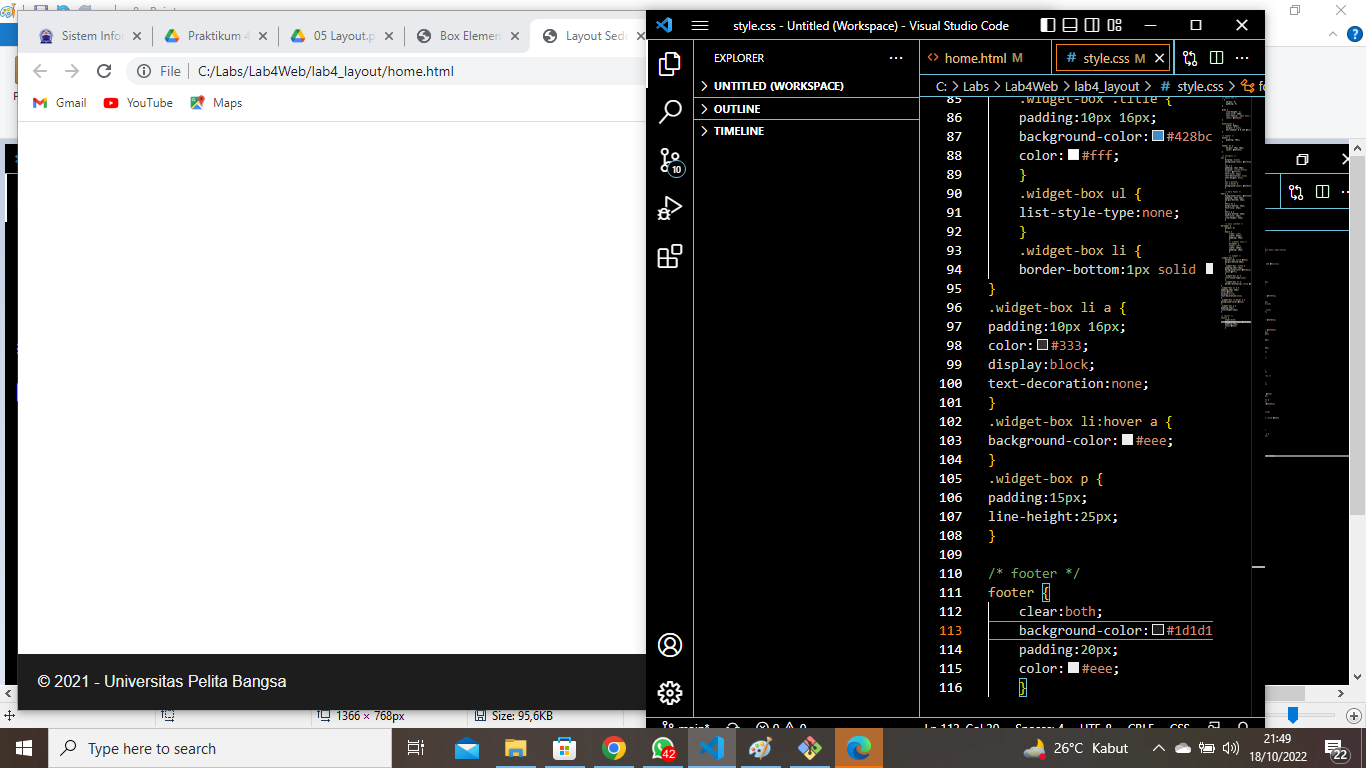
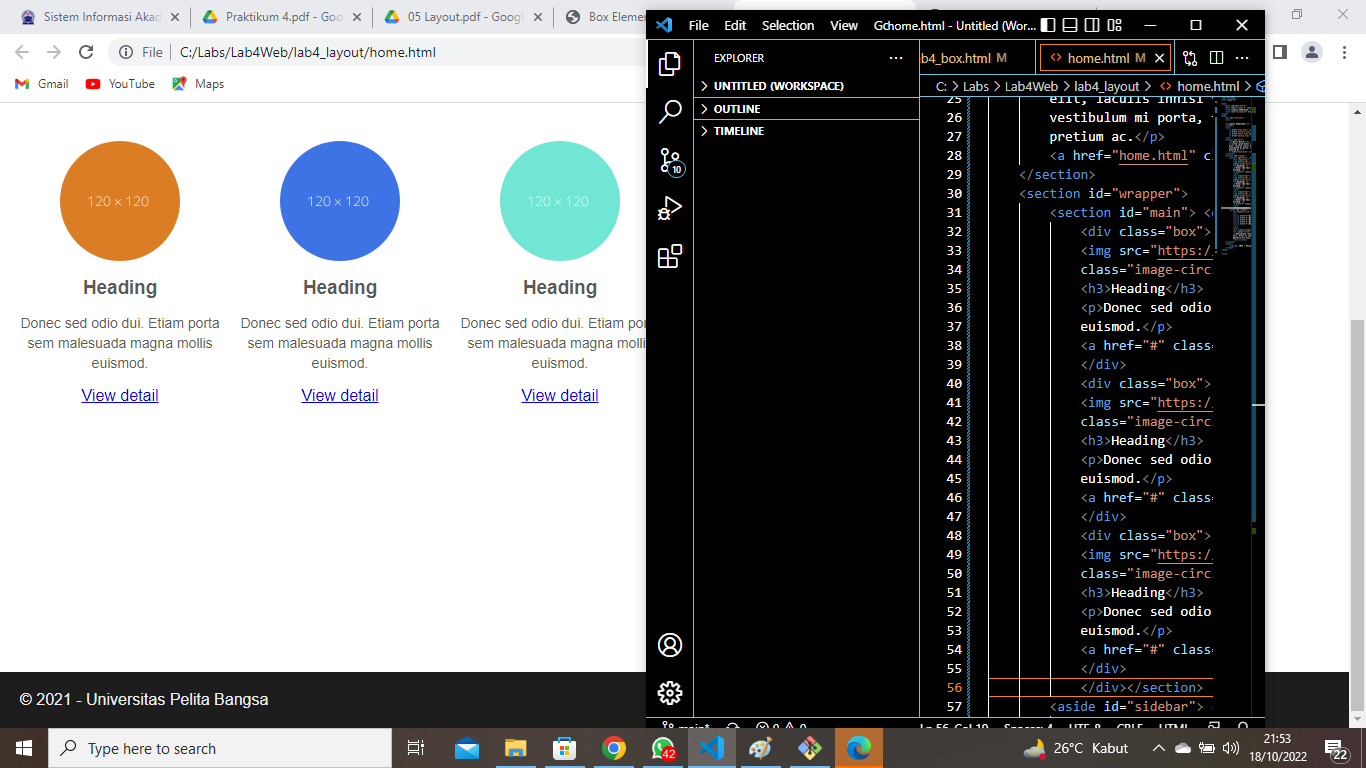
menambahkan file

diff --git a/lab4_layout/home.html b/lab4_layout/home.html
@@ -5,101 +5,101 @@
     <meta charset="UTF-8">
     <meta name="viewport" content="width=device-width, initial-scale=1.0">
     <title>Layout Sederhana</title>
-    <link rel="stylesheet" href="style.css">
+    <link rel="stylesheet" type="text/css" href="style.css">
 </head>
 
 <body>
     <div id="container">
-    </div>
-    <header>
-        <h1>Layout Sederhana</h1>
-    </header>
-    <nav>
-        <a href="home.html" class="active">Home</a>
-        <a href="artikel.html">Artikel</a>
-        <a href="about.html">About</a>
-        <a href="kontak.html">Kontak</a>
-    </nav>
+        <header>
+            <h1>Layout Sederhana</h1>
+        </header>
+        <nav>
+            <a href="home.html" class="active">Home</a>
+            <a href="artikel.html">Artikel</a>
+            <a href="about.html">About</a>
+            <a href="kontak.html">Kontak</a>
+        </nav>
 
-    <section id="hero">
-        <h1>Hello World!</h1>
-        <p>Lorem ipsum dolor sit amet, consectetur adipiscing elit. Vestibulum lorem
-            elit, iaculis innisl volutpat, malesuada tincidunt arcu. Proin in leo fringilla,
-            vestibulum mi porta, faucibus felis. Integer pharetra est nunc, nec pretium nunc
-            pretium ac.</p>
-        <a href="home.html" class="btn btn-large">Learn more &raquo;</a>
-    </section>
-
-    <section id="wrapper">
-        <section id="main">
-            <div class="row">
-                <div class="box">
-                    <img src="https://dummyimage.com/120/db7d25/fff.png" alt="" class="image-circle">
-                    <h3>Heading</h3>
-                    <p>Donec sed odio dui. Etiam porta sem malesuada magna mollis
-                        euismod.</p>
-                    <a href="#" class="btn btn-default">View detail</a>
-                </div>
-                <div class="box">
-                    <img src="https://dummyimage.com/120/3e73e6/fff.png" alt="" class="image-circle">
-                    <h3>Heading</h3>
-                    <p>Donec sed odio dui. Etiam porta sem malesuada magna mollis
-                        euismod.</p>
-                    <a href="#" class="btn btn-default">View detail</a>
-                </div>
-                <div class="box">
-                    <img src="https://dummyimage.com/120/71e6d4/fff.png" alt="" class="image-circle">
-                    <h3>Heading</h3>
-                    <p>Donec sed odio dui. Etiam porta sem malesuada magna mollis
-                        euismod.</p>
-                    <a href="#" class="btn btn-default">View detail</a>
-                </div>
-            </div>
+        <section id="hero">
+            <h1>Hello World!</h1>
+            <p> Lorem ipsum dolor sit amet, consectetur adipiscing elit. Vestibulum lorem
+                elit, iaculis innisl volutpat, malesuada tincidunt arcu. Proin in leo fringilla,
+                vestibulum mi porta, faucibus felis. Integer pharetra est nunc, nec pretium nunc
+                pretium ac.</p>
+            <a href="home.html" class="btn btn-large">Learn more &raquo;</a>
         </section>
 
-        <aside id="sidebar">
-            <div class="widget-box">
-                <h3 class="title">Widget Header</h3>
-                <ul>
-                    <li><a href="#">Widget Link</a></li>
-                    <li><a href="#">Widget Link</a></li>
-                    <li><a href="#">Widget Link</a></li>
-                    <li><a href="#">Widget Link</a></li>
-                    <li><a href="#">Widget Link</a></li>
-                </ul>
-            </div>
-            <div class="widget-box">
-                <h3 class="title">Widget Text</h3>
-                <p>Vestibulum lorem elit, iaculis in nisl volutpat, malesuada tincidunt
-                    arcu. Proin in leo fringilla, vestibulum mi porta, faucibus felis. Integer
-                    pharetra est nunc, nec pretium nunc pretium ac.</p>
-            </div>
-        </aside>
-    </section>
+        <section id="wrapper">
+            <section id="main">
+                <div class="row">
+                    <div class="box">
+                        <img src="https://dummyimage.com/120/db7d25/fff.png" alt="" class="image-circle">
+                        <h3>Heading</h3>
+                        <p>Donec sed odio dui. Etiam porta sem malesuada magna mollis
+                            euismod.</p>
+                        <a href="#" class="btn btn-default">View detail</a>
+                    </div>
+                    <div class="box">
+                        <img src="https://dummyimage.com/120/3e73e6/fff.png" alt="" class="image-circle">
+                        <h3>Heading</h3>
+                        <p>Donec sed odio dui. Etiam porta sem malesuada magna mollis
+                            euismod.</p>
+                        <a href="#" class="btn btn-default">View detail</a>
+                    </div>
+                    <div class="box">
+                        <img src="https://dummyimage.com/120/71e6d4/fff.png" alt="" class="image-circle">
+                        <h3>Heading</h3>
+                        <p>Donec sed odio dui. Etiam porta sem malesuada magna mollis
+                            euismod.</p>
+                        <a href="#" class="btn btn-default">View detail</a>
+                    </div>
+                </div>
+                <hr class="divider" />
+                <article class="entry">
+                    <h2>First featurette heading</h2>
+                    <img src="https://dummyimage.com/150/7b8a70/fff.png" alt="">
+                    <p>Lorem ipsum dolor sit amet, consectetur adipiscing elit. Vestibulum lorem
+                        elit, iaculis in nisl volutpat, malesuada tincidunt arcu. Proin in leo fringilla,
+                        vestibulum mi porta, faucibus felis. Integer pharetra est nunc, nec pretium nunc
+                        pretium ac.</p>
+                </article>
+                <hr class="divider" />
+                <article class="entry">
+                    <h2>First featurette heading.</h2>
+                    <img src="https://dummyimage.com/150/7b8a70/fff.png" alt="" class="right-img">
+                    <p>Lorem ipsum dolor sit amet, consectetur adipiscing elit. Vestibulum lorem
+                        elit, iaculis in nisl volutpat, malesuada tincidunt arcu. Proin in leo fringilla,
+                        vestibulum mi porta, faucibus felis. Integer pharetra est nunc, nec pretium nunc
+                        pretium ac.</p>
+                </article>
+        
+            </section>
 
-    <hr class="divider" />
-    <article class="entry">
-        <h2>First featurette heading.</h2>
-        <img src="https://dummyimage.com/150/7b8a70/fff.png" alt="" class="left-img">
-        <p>Lorem ipsum dolor sit amet, consectetur adipiscing elit. Vestibulum lorem
-            elit, iaculis in nisl volutpat, malesuada tincidunt arcu. Proin in leo fringilla,
-            vestibulum mi porta, faucibus felis. Integer pharetra est nunc, nec pretium nunc
-            pretium ac.</p>
-    </article>
+            <aside id="sidebar">
+                <div class="widget-box">
+                    <h3 class="title">Widget Header</h3>
+                    <ul>
+                        <li><a href="#">Widget Link</a></li>
+                        <li><a href="#">Widget Link</a></li>
+                        <li><a href="#">Widget Link</a></li>
+                        <li><a href="#">Widget Link</a></li>
+                        <li><a href="#">Widget Link</a></li>
+                    </ul>
+                </div>
+                <div class="widget-box">
+                    <h3 class="title">Widget Text</h3>
+                    <p>Vestibulum lorem elit, iaculis in nisl volutpat, malesuada tincidunt
+                        arcu. Proin in leo fringilla, vestibulum mi porta, faucibus felis. Integer
+                        pharetra est nunc, nec pretium nunc pretium ac.</p>
+                </div>
+            </aside>
+        </section>
 
-    <hr class="divider" />
-    <article class="entry">
-        <h2>First featurette heading.</h2>
-        <img src="https://dummyimage.com/150/7b8a70/fff.png" alt="" class="right-img">
-        <p>Lorem ipsum dolor sit amet, consectetur adipiscing elit. Vestibulum lorem
-            elit, iaculis in nisl volutpat, malesuada tincidunt arcu. Proin in leo fringilla,
-            vestibulum mi porta, faucibus felis. Integer pharetra est nunc, nec pretium nunc
-            pretium ac.</p>
-    </article>
-
-    <footer>
-        <p>&copy; 2021 - Universitas Pelita Bangsa</p>
-    </footer>
+       
+        <footer>
+            <p>&copy; 2021 - Universitas Pelita Bangsa</p>
+        </footer>
+    </div>
 </body>
 
 </html>

diff --git a/lab4_layout/style.css b/lab4_layout/style.css
@@ -19,16 +19,21 @@
 
  /* header */
  header {
+     width: 100%;
+     display: flex;
+     justify-content: left;
+     align-items: left;
      padding: 20px;
  }
 
  header h1 {
-    margin: 0px 20px;
-    color: #b5b5b5;
+     margin: 0px 20px;
+     color: #b5b5b5;
  }
 
  /* navigasi */
  nav {
+     width: 100%;
      display: block;
      background-color: #1f5faa;
  }
@@ -190,7 +195,7 @@
  }
 
  .entry h2 {
-     margin-bottom: 20px;
+     margin-bottom: 20px
  }
 
  .entry p {

diff --git a/README.md b/README.md
@@ -1,1 +1,40 @@
 # Lab4Web
+## Membuat CSS Layout
+### Langkah - langkah Pratikum 4
+
+#### Membuat Box Element
+Digunakan untuk membuat daftar dimana tiap bagiannya ditandai dengan sebuah simbol. Ordered list dibuat dengan tag ol. Lalu di dalamnya diisi dengan item-item yang akan dimasukkan ke dalam list. Item dibuat dengan tag li (list item) Beginilah tampilannya:
+![gambar1](screenshot/ss1.png)
+
+#### Mengatur Clearfix Element
+Digunakan untuk membuat daftar dimana tiap bagiannya memiliki nomor secara terurut. Unordered list dibuat dengan tag ul dan untuk item-nya dibuat juga dengan tag li. Inilah tampilannya:
+![gambar2](screenshot/ss2.png)
+
+#### Membuat Layout Sederhana
+Digunakan untuk membuat daftar dimana tiap daftar tersebut memiliki penjelasan (sub-bagian). Inilah tampilannya:
+![gambar3](screenshot/ss3.png)
+
+#### Membuat Navigasi
+HTML Table dapat dibuat dengan tag table, thead, tbody, th, tr, and td. begini tampilannya:
+![gambar4](screenshot/ss4.png)
+
+#### Membuat Hero Panel.
+Untuk mengatur margin dan padding pada cel data, dengan menambahkan atribut cellpadding dan cellspacing pada tag table. Berikut tampilannya:
+![gambar5](screenshot/ss5.png)
+
+#### Mengatur Layout Main dan Sidebar
+Untuk menggabungkan sel data, gunakan atribut rowspan dan colspan. Atribut rowspan untuk menggabungkan baris (secara vertikal) dan colspan untuk menggabungkan kolom (secara horizontal), Berikut tampilannya:
+![gambar6](screenshot/ss6.png)
+
+#### Membuat Sidebar Widget
+Untuk membuat form digunakan tag form dengan atribut action dan method. Atribut action untuk menentukan aksi yang akan digunakan pada saat form dikirim. Dan method adalah untuk menentukan metode yang digunakan dalam mengirimkan data, Berikut tampilannya:
+![gambar7](screenshot/ss7.png)
+
+#### Mengatur Footer
+Agar tampilan form lebih menarik, bisa ditambahkan CSS. Berikut tampilannya :
+![gambar8](screenshot/ss8.png)
+
+#### Hasil Pratikum 
+Berikut ini adalah tampilan dari praktek yang saya lakukan:
+![gambarhsl](screenshot/hsl1.png)
+![gambarhsl](screenshot/hsl2.png)
